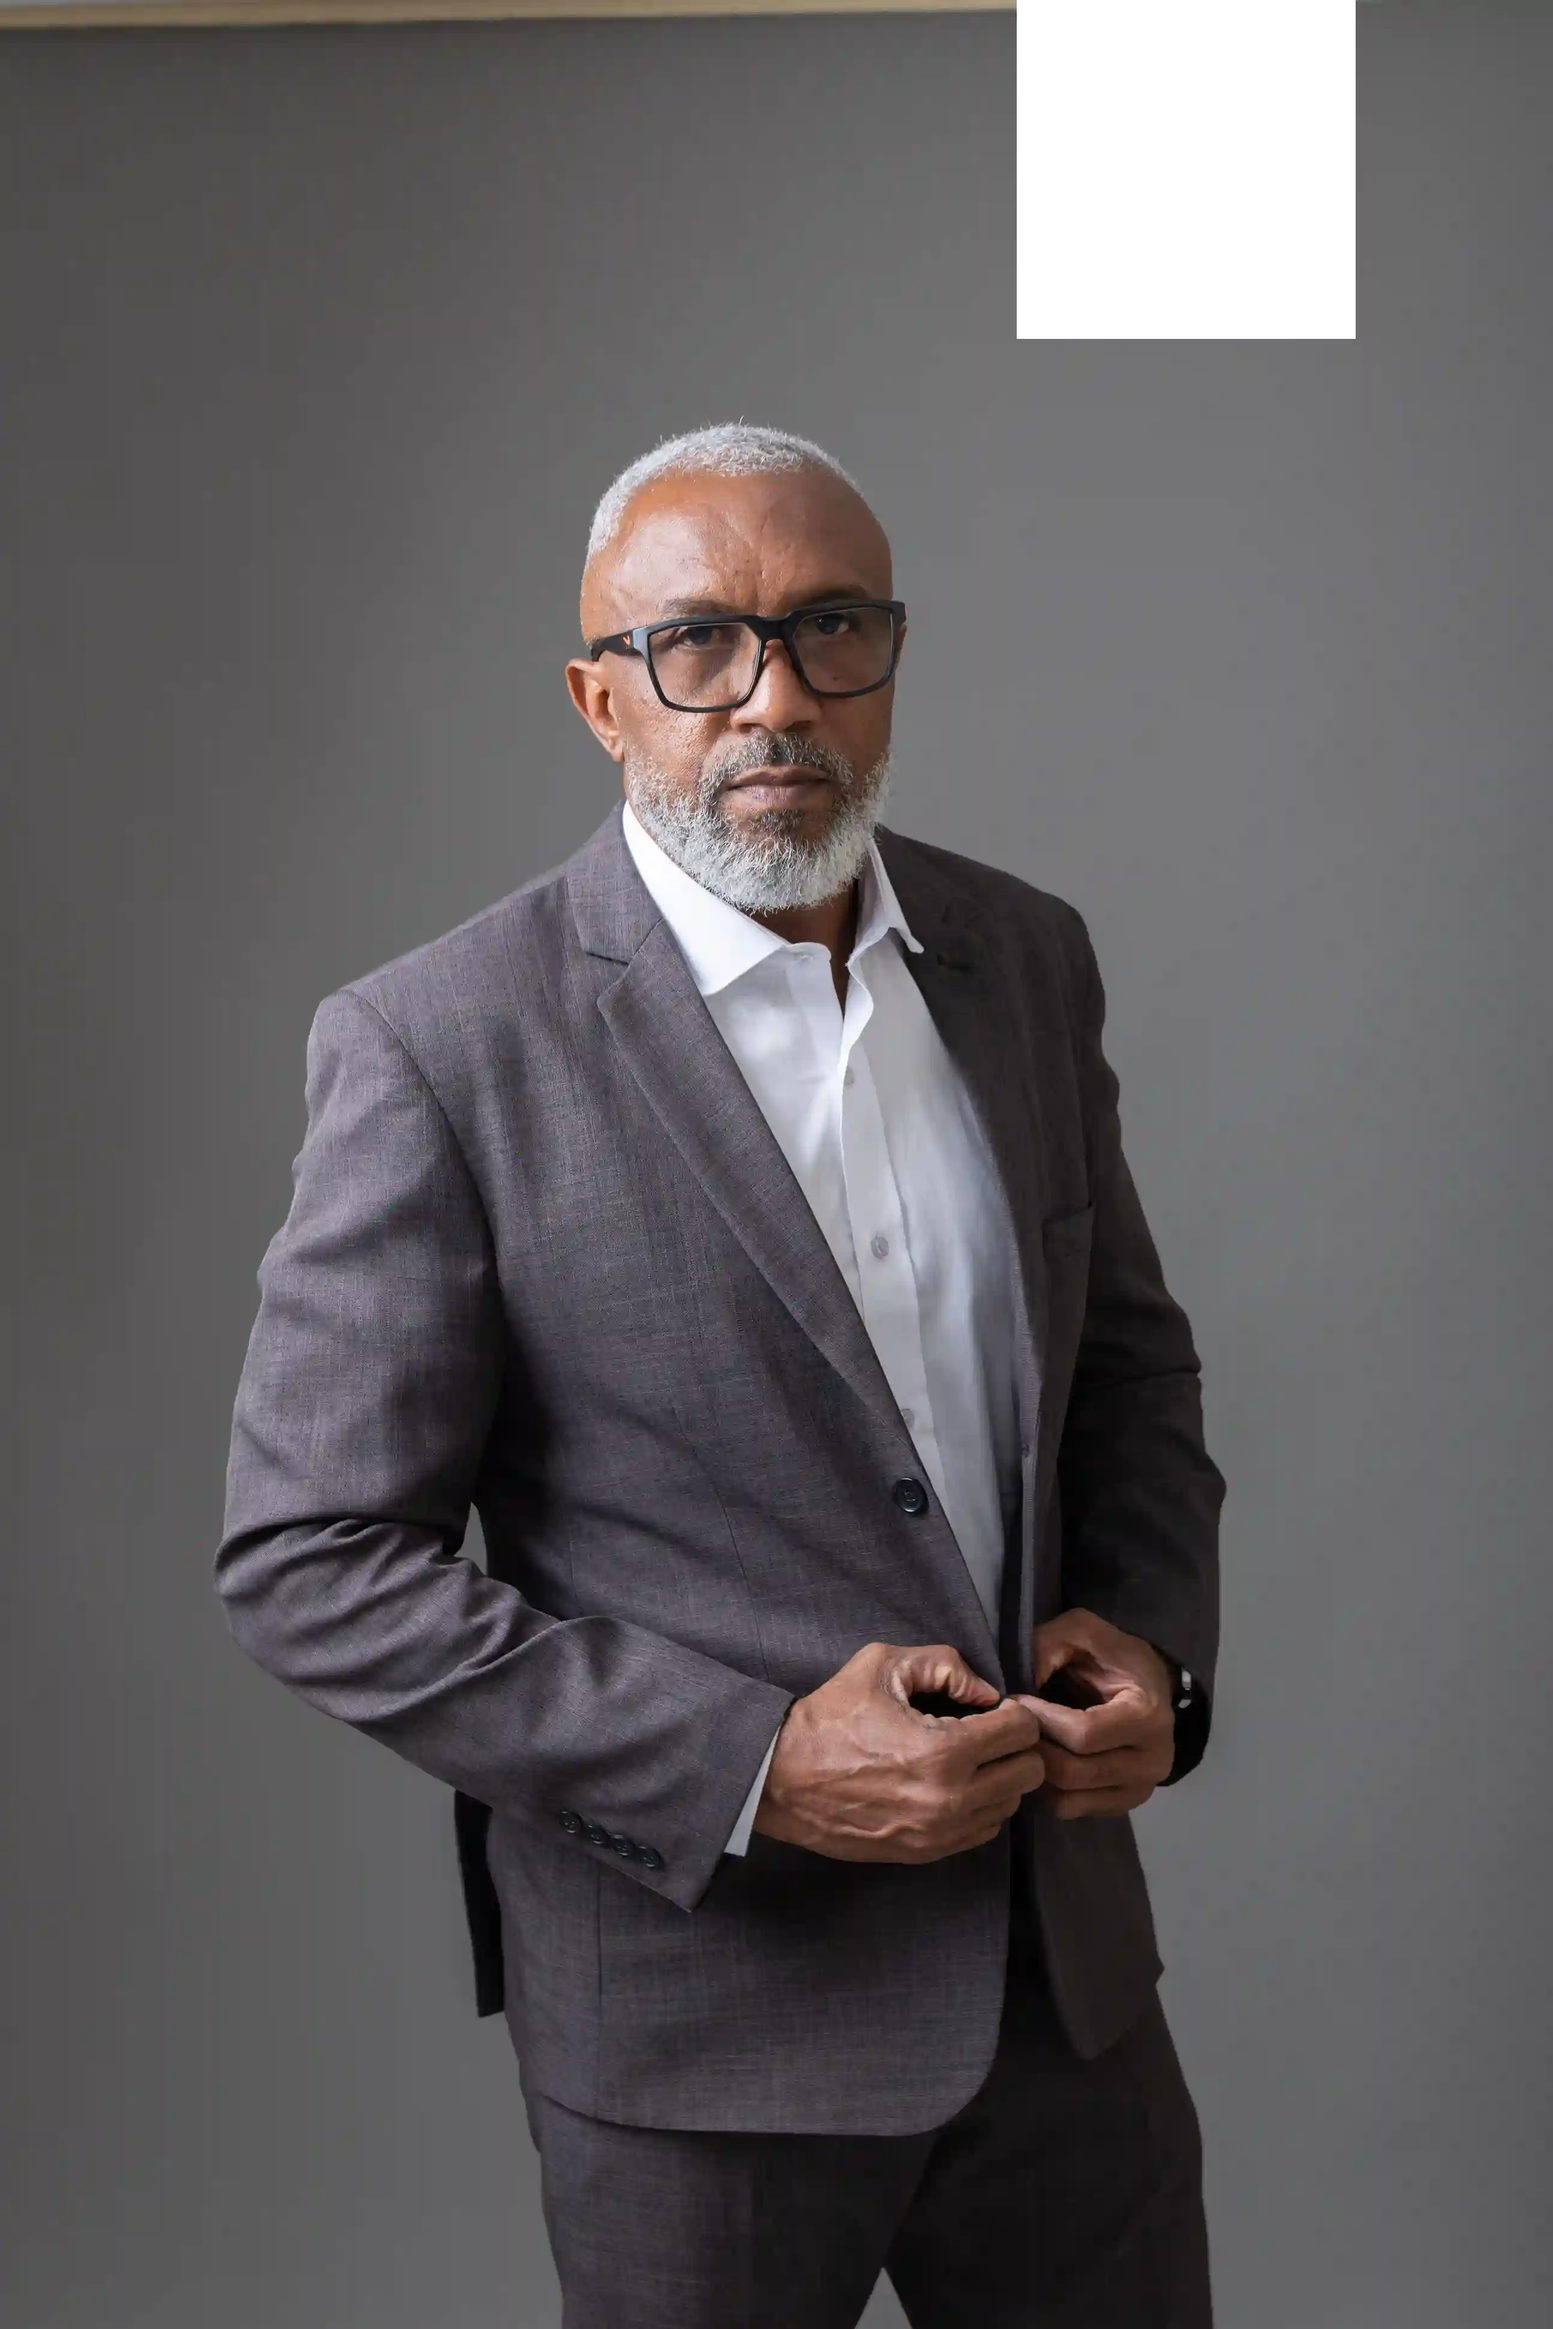
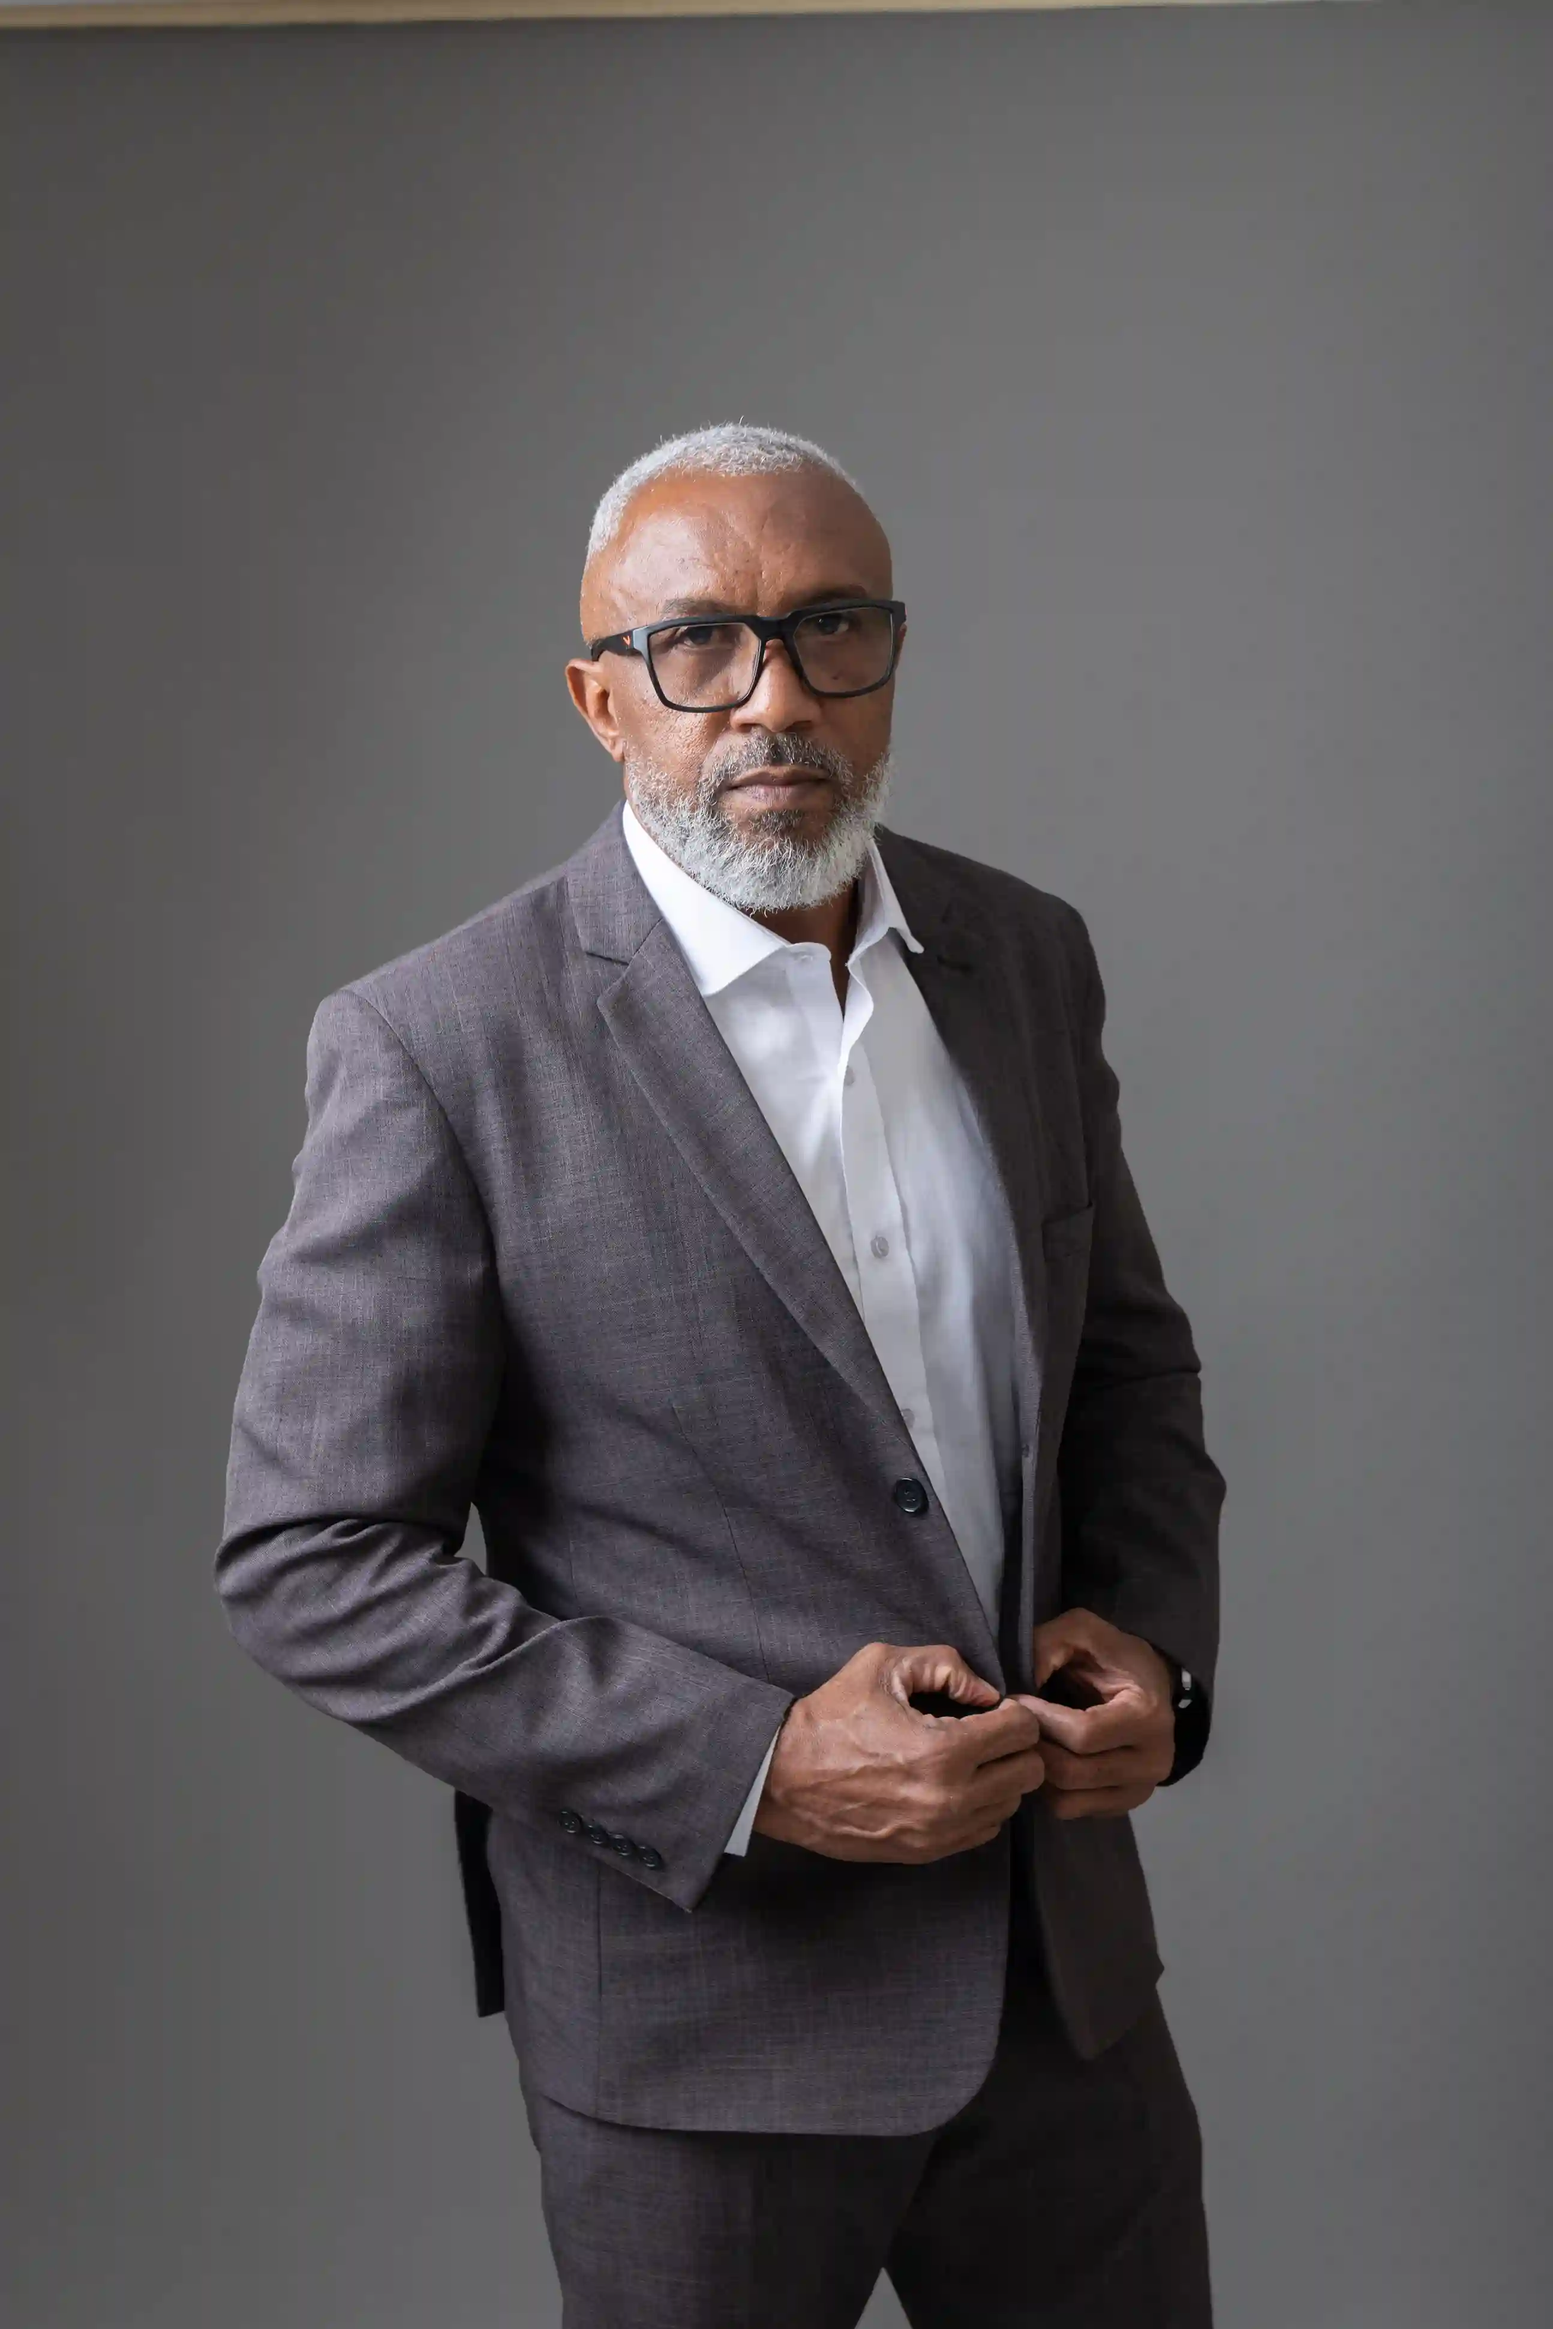
feat: add new image asset and wrap main portrait in a styled container for improved layout control

Changed region(s): [[0.6489, 0.0, 0.8961, 0.1558]]

diff --git a/index.html b/index.html
@@ -620,10 +620,12 @@
         <!-- Lado Esquerdo: Imagem + Galeria de Thumbs -->
         <div class="sobre-image-wrapper reveal-left">
           <div class="sobre-image-frame" aria-hidden="true"></div>
-          <img src="Fotos/corp-marcio-0323.webp" id="sobre-image-main"
-            alt="Dr. Márcio José Alcides - retrato corporativo de estúdio"
-            class="sobre-image" loading="lazy" width="550" height="700" decoding="async">
-          <div class="sobre-image-badge" id="sobre-image-badge" aria-live="polite">Dr. Márcio José Alcides</div>
+          <div class="sobre-image-main-wrap">
+            <img src="Fotos/corp-marcio-0323.webp" id="sobre-image-main"
+              alt="Dr. Márcio José Alcides - retrato corporativo de estúdio"
+              class="sobre-image" loading="lazy" width="550" height="700" decoding="async">
+            <div class="sobre-image-badge" id="sobre-image-badge" aria-live="polite">Dr. Márcio José Alcides</div>
+          </div>
 
           <div class="sobre-thumbs" role="tablist" aria-label="Galeria dos advogados">
             <button type="button" class="sobre-thumb is-active" role="tab" aria-selected="true"
@@ -686,7 +688,7 @@
               disciplina e excelência moldadas na carreira como <strong>Militar da Força Aérea Brasileira (FAB)</strong>,
               consolidando uma formação multidisciplinar em Direito, Economia e Administração.</p>
             <p>Juntos, o <strong>Dr. Marcio José</strong> e o <strong>Dr. José Alício</strong> oferecem uma visão global
-              diferenciada — unindo rigor técnico, inteligência de mercado e uma advocacia estratégica e humanizada. O
+              diferenciada, unindo rigor técnico, inteligência de mercado e uma advocacia estratégica e humanizada. O
               foco é entregar soluções jurídicas inteligentes, seguras e personalizadas por meio de um atendimento
               empático, transparente e focado nas reais necessidades de cada cliente: uma verdadeira união entre
               <em>ética militar</em>, <em>visão de negócios</em> e <em>sensibilidade humana</em>.</p>

diff --git a/style.css b/style.css
@@ -1143,6 +1143,16 @@ address {
   z-index: 0;
 }
 
+/* Container da imagem principal — âncora do balão (não inclui as thumbs) */
+.sobre-image-main-wrap {
+  position: relative;
+  z-index: 1;
+  display: block;
+  border-radius: var(--radius-lg);
+  overflow: hidden;
+  box-shadow: var(--shadow-xl);
+}
+
 .sobre-image {
   position: relative;
   z-index: 1;
@@ -1151,7 +1161,6 @@ address {
   object-fit: cover;
   object-position: center 25%;
   border-radius: var(--radius-lg);
-  box-shadow: var(--shadow-xl);
   transition: opacity 0.25s ease;
 }
 
